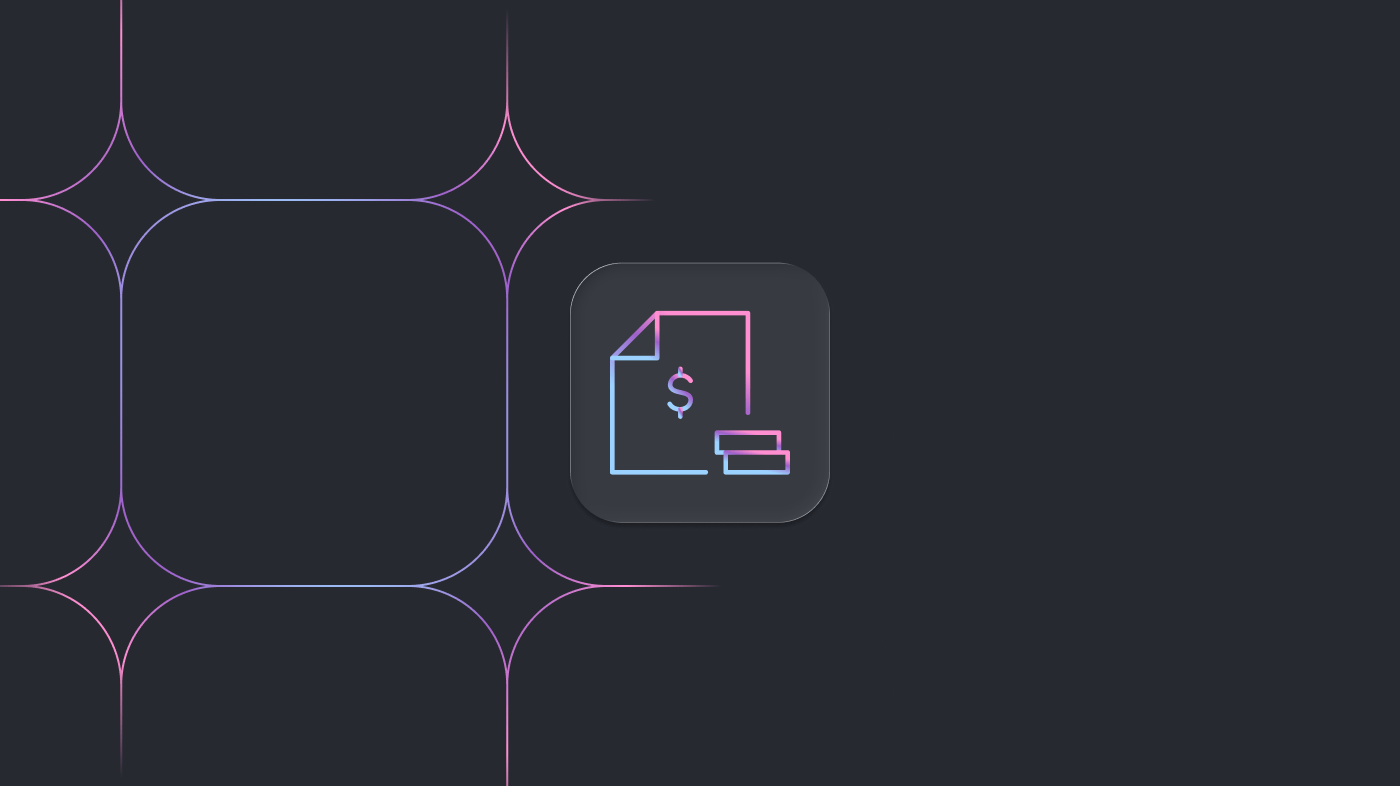
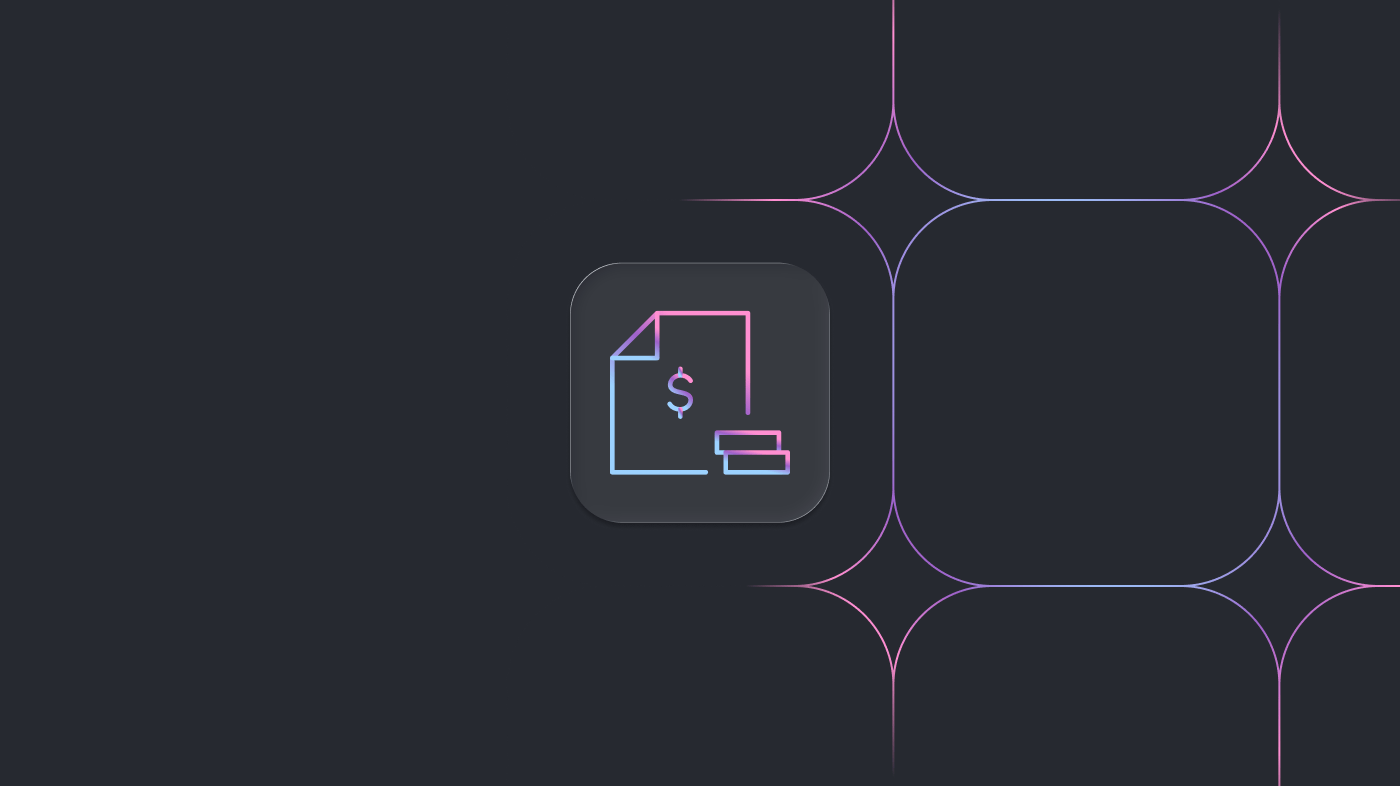
GITBOOK-9: No subject

diff --git a/products/payments/README.md b/products/payments/README.md
@@ -91,7 +91,7 @@ Try a persona to see adaptive content in action across the site:
 **New to Evolve Payments?** The dashboard works on its own — get a real test charge in five minutes, no code required.
 {% endhint %}
 
-<table data-card-size="large" data-view="cards"><thead><tr><th></th><th></th><th></th><th data-hidden data-card-target data-type="content-ref"></th></tr></thead><tbody><tr><td><h4><i class="fa-rocket" style="color:$primary;">:rocket:</i></h4></td><td><h4><strong>Accept your first payment</strong></h4></td><td>Take your first test payment in five minutes — no integration required.</td><td><a href="quickstart/accept-your-first-payment.md">accept-your-first-payment.md</a></td></tr><tr><td><h4><i class="fa-flask" style="color:$primary;">:flask:</i></h4></td><td><h4><strong>Test mode and live mode</strong></h4></td><td>What changes when you flip from test to live, and the cutover checklist.</td><td><a href="quickstart/test-and-live-mode.md">test-and-live-mode.md</a></td></tr></tbody></table>
+<table data-card-size="large" data-view="cards"><thead><tr><th></th><th></th><th></th><th data-hidden data-card-target data-type="content-ref"></th><th data-hidden data-card-cover data-type="image">Cover image</th><th data-hidden data-card-cover-dark data-type="image">Cover image (dark)</th></tr></thead><tbody><tr><td><h4><i class="fa-rocket" style="color:$primary;">:rocket:</i></h4></td><td><h4><strong>Accept your first payment</strong></h4></td><td>Take your first test payment in five minutes — no integration required.</td><td><a href="quickstart/accept-your-first-payment.md">accept-your-first-payment.md</a></td><td><a href=".gitbook/assets/first-payment.png">first-payment.png</a></td><td><a href=".gitbook/assets/first-payment-dark.png">first-payment-dark.png</a></td></tr><tr><td><h4><i class="fa-flask" style="color:$primary;">:flask:</i></h4></td><td><h4><strong>Test mode and live mode</strong></h4></td><td>What changes when you flip from test to live, and the cutover checklist.</td><td><a href="quickstart/test-and-live-mode.md">test-and-live-mode.md</a></td><td><a href=".gitbook/assets/test-live.png">test-live.png</a></td><td><a href=".gitbook/assets/test-live-dark.png">test-live-dark.png</a></td></tr></tbody></table>
 {% endif %}
 
 {% if visitor.claims.unsigned.persona === "existing" %}
@@ -99,7 +99,7 @@ Try a persona to see adaptive content in action across the site:
 **Migrating from Stripe?** Most APIs map cleanly. Start with the migration guide and the saved-method patterns.
 {% endhint %}
 
-<table data-card-size="large" data-view="cards"><thead><tr><th></th><th></th><th></th><th data-hidden data-card-target data-type="content-ref"></th></tr></thead><tbody><tr><td><h4><i class="fa-arrows-left-right" style="color:$primary;">:arrows-left-right:</i></h4></td><td><h4><strong>Migrate from Stripe</strong></h4></td><td>Field mapping, parallel-run pattern, and the cutover checklist.</td><td><a href="https://app.gitbook.com/s/Nankrp40VchJsUblU6h6/build-common-payment-flows/migrate-from-stripe">Migrate from Stripe</a></td></tr><tr><td><h4><i class="fa-bookmark" style="color:$primary;">:bookmark:</i></h4></td><td><h4><strong>Save cards for repeat customers</strong></h4></td><td>How Stripe's Customer/PaymentMethod model maps to Evolve.</td><td><a href="https://app.gitbook.com/s/Nankrp40VchJsUblU6h6/build-common-payment-flows/save-cards">Save cards for repeat customers</a></td></tr></tbody></table>
+<table data-card-size="large" data-view="cards"><thead><tr><th></th><th></th><th></th><th data-hidden data-card-target data-type="content-ref"></th><th data-hidden data-card-cover data-type="image">Cover image</th><th data-hidden data-card-cover-dark data-type="image">Cover image (dark)</th></tr></thead><tbody><tr><td><h4><i class="fa-arrows-left-right" style="color:$primary;">:arrows-left-right:</i></h4></td><td><h4><strong>Migrate from Stripe</strong></h4></td><td>Field mapping, parallel-run pattern, and the cutover checklist.</td><td><a href="https://app.gitbook.com/s/Nankrp40VchJsUblU6h6/build-common-payment-flows/migrate-from-stripe">Migrate from Stripe</a></td><td><a href=".gitbook/assets/migrate.png">migrate.png</a></td><td><a href=".gitbook/assets/migrate-dark.png">migrate-dark.png</a></td></tr><tr><td><h4><i class="fa-bookmark" style="color:$primary;">:bookmark:</i></h4></td><td><h4><strong>Save cards for repeat customers</strong></h4></td><td>How Stripe's Customer/PaymentMethod model maps to Evolve.</td><td><a href="https://app.gitbook.com/s/Nankrp40VchJsUblU6h6/build-common-payment-flows/save-cards">Save cards for repeat customers</a></td><td><a href=".gitbook/assets/save-cards.png">save-cards.png</a></td><td><a href=".gitbook/assets/save-cards-dark.png">save-cards-dark.png</a></td></tr></tbody></table>
 {% endif %}
 
 {% if visitor.claims.unsigned.persona === "partner" %}
@@ -107,7 +107,7 @@ Try a persona to see adaptive content in action across the site:
 **Setting up enterprise features?** Smart routing, failover, and same-day payouts are the highest-leverage Enterprise capabilities.
 {% endhint %}
 
-<table data-card-size="large" data-view="cards"><thead><tr><th></th><th></th><th></th><th data-hidden data-card-target data-type="content-ref"></th></tr></thead><tbody><tr><td><h4><i class="fa-route" style="color:$primary;">:route:</i></h4></td><td><h4><strong>Smart routing</strong></h4></td><td>Per-network success-rate optimization. 1–3% lift in approval rate.</td><td><a href="accept-payments/smart-routing.md">smart-routing.md</a></td></tr><tr><td><h4><i class="fa-arrows-spin" style="color:$primary;">:arrows-spin:</i></h4></td><td><h4><strong>Failover and retries</strong></h4></td><td>Stay up when an acquirer or network goes down.</td><td><a href="accept-payments/failover.md">failover.md</a></td></tr></tbody></table>
+<table data-card-size="large" data-view="cards"><thead><tr><th></th><th></th><th></th><th data-hidden data-card-target data-type="content-ref"></th><th data-hidden data-card-cover data-type="image">Cover image</th><th data-hidden data-card-cover-dark data-type="image">Cover image (dark)</th></tr></thead><tbody><tr><td><h4><i class="fa-route" style="color:$primary;">:route:</i></h4></td><td><h4><strong>Smart routing</strong></h4></td><td>Per-network success-rate optimization. 1–3% lift in approval rate.</td><td><a href="accept-payments/smart-routing.md">smart-routing.md</a></td><td><a href=".gitbook/assets/smart-routing.png">smart-routing.png</a></td><td><a href=".gitbook/assets/smart-routing-dark.png">smart-routing-dark.png</a></td></tr><tr><td><h4><i class="fa-arrows-spin" style="color:$primary;">:arrows-spin:</i></h4></td><td><h4><strong>Failover and retries</strong></h4></td><td>Stay up when an acquirer or network goes down.</td><td><a href="accept-payments/failover.md">failover.md</a></td><td><a href=".gitbook/assets/failover-retries.png">failover-retries.png</a></td><td><a href=".gitbook/assets/failover-retries-dark.png">failover-retries-dark.png</a></td></tr></tbody></table>
 {% endif %}
 
 {% if visitor.claims.unsigned.persona %}